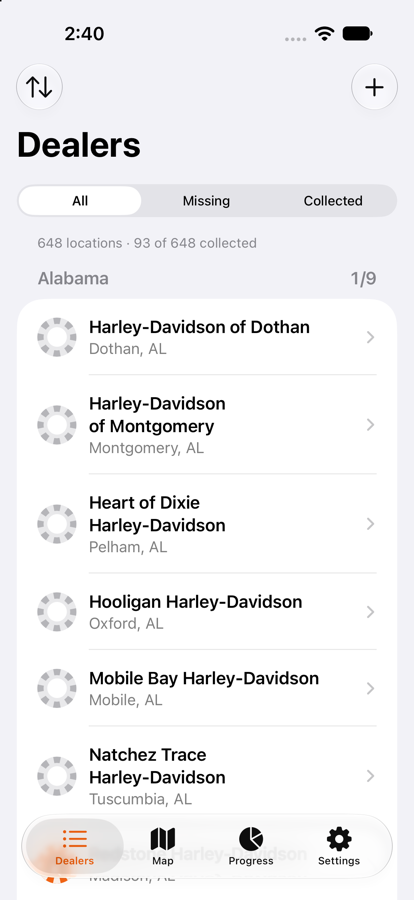
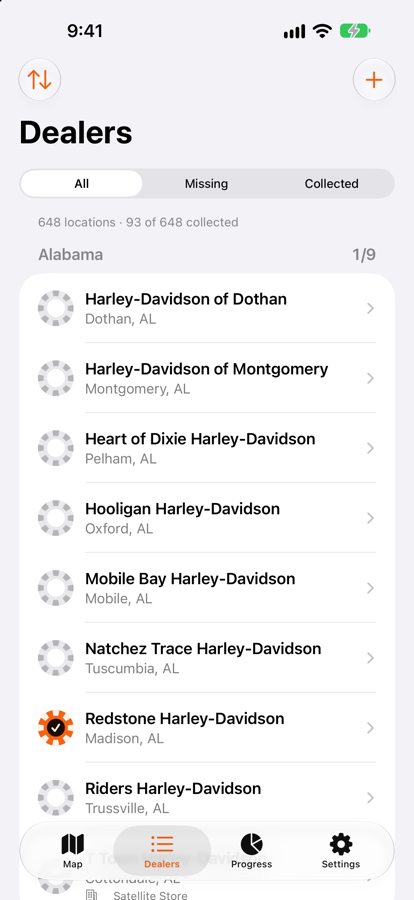
Open on the map, now the first tab (1.2)
- Map is the first tab and the app always opens on it (plain @State
  instead of restoring the last tab from scene storage).
- Retook every App Store screenshot set (6.9", 6.3", iPhone Duo folded
  and unfolded) in the new order, map first, so it leads the listing and
  link previews; rebuilt the Duo previews and README images.
- Bump the version to 1.2.

diff --git a/HarleyChipTracker/Views/RootView.swift b/HarleyChipTracker/Views/RootView.swift
@@ -2,15 +2,16 @@ import SwiftData
 import SwiftUI
 
 struct RootView: View {
-    @SceneStorage("selectedTab") private var selectedTab = AppTab.dealers
+    /// The app always opens on the map, the first tab.
+    @State private var selectedTab = AppTab.map
 
     var body: some View {
         TabView(selection: $selectedTab) {
-            Tab("Dealers", systemImage: "list.bullet", value: AppTab.dealers) {
-                DealerListView()
-            }
             Tab("Map", systemImage: "map", value: AppTab.map) {
                 ChipMapView()
+            }
+            Tab("Dealers", systemImage: "list.bullet", value: AppTab.dealers) {
+                DealerListView()
             }
             Tab("Progress", systemImage: "chart.pie", value: AppTab.progress) {
                 CollectionStatsView()
@@ -29,7 +30,7 @@ struct RootView: View {
 }
 
 enum AppTab: String {
-    case dealers, map, progress, settings
+    case map, dealers, progress, settings
 }
 
 #Preview {

diff --git a/README.md b/README.md
@@ -3,27 +3,27 @@
 Chip Chaser is an iPhone app for Harley-Davidson chip collectors (it started out as Harley Chip Tracker, the name the code still uses). Every Harley-Davidson dealership sells its own poker chip; this app lists them all and tracks which ones you have and which you're still missing.
 
 <p>
-  <img src="docs/screenshots/dealers.png" width="200" alt="Dealer list grouped by state">
   <img src="docs/screenshots/map.png" width="200" alt="Map of collected and missing chips">
+  <img src="docs/screenshots/dealers.png" width="200" alt="Dealer list grouped by state">
   <img src="docs/screenshots/progress.png" width="200" alt="Collection progress">
   <img src="docs/screenshots/detail.png" width="200" alt="Dealer detail with chip count">
 </p>
 
 On iPhone Duo's outer screen (folded), iOS moves the tab bar to a rail along the right edge; no layout changes were needed:
 
-<img src="docs/appstore/duo/preview.png" alt="Dealers, Map, Progress and dealer detail on iPhone Duo, with the tab bar as a rail on the right">
+<img src="docs/appstore/duo/preview.png" alt="Map, Dealers, Progress and dealer detail on iPhone Duo, with the tab bar as a rail on the right">
 
 Unfolded, the app fills the big inner screen in landscape, with the same rail on the right:
 
-<img src="docs/appstore/duo-unfolded/preview.png" alt="Dealers, Map, Progress and dealer detail on the unfolded iPhone Duo's inner screen, in landscape">
+<img src="docs/appstore/duo-unfolded/preview.png" alt="Map, Dealers, Progress and dealer detail on the unfolded iPhone Duo's inner screen, in landscape">
 
 Full-size Duo screenshots are in [`docs/appstore/duo/`](docs/appstore/duo/) (folded) and [`docs/appstore/duo-unfolded/`](docs/appstore/duo-unfolded/), next to the App Store screenshots in [`docs/appstore/`](docs/appstore/).
 
 ## Features
 
+- **Map first.** The app opens on the map. Orange chips are ones you have, grey ones you're missing. The map centers on your area so you can plan a ride around the chips you still need.
 - **Every location, built in.** 648 US and Canadian locations (556 dealerships, 26 satellite stores, 66 apparel & gift shops) from Harley-Davidson's dealer locator, including Alaska, Hawaii, Puerto Rico and Guam.
 - **Mark chips in one tap.** Tap the chip next to a dealer, or swipe the row. Filter by All / Missing / Collected, search by name, city, state or ZIP, and sort by state, A to Z, or nearest to you.
-- **Map.** Orange chips are ones you have, grey ones you're missing. The map opens on your area so you can plan a ride around the chips you still need.
 - **Progress.** Overall percentage, per-state progress (with a seal when you finish a state), recently collected, and counts of extras.
 - **Trading.** Track how many of each chip you own. Share your *missing list* or *extras for trade* as text to a collector group.
 - **Your own stores.** Add a dealer that's new, closed, or overseas; it counts like any other.
@@ -71,7 +71,7 @@ From the command line:
 xcodebuild test -project HarleyChipTracker.xcodeproj -scheme HarleyChipTracker -destination 'platform=iOS Simulator,name=iPhone 18 Pro'
 ```
 
-Debug builds accept `-demoData YES` (in-memory sample collection), `-debugTab map|progress|settings` and `-debugDealer <id>` launch arguments for screenshots.
+Debug builds accept `-demoData YES` (in-memory sample collection), `-debugTab dealers|progress|settings` (the app opens on the map otherwise) and `-debugDealer <id>` (with `-debugTab dealers`) launch arguments for screenshots. The App Store set in `docs/appstore/` is, in order: `-demoData YES`, then adding `-debugTab dealers`, `-debugTab progress`, and `-debugTab dealers -debugDealer hd-210`, with the simulator's location set to Milwaukee (43.0389, -87.9065) and the status bar at 9:41.
 
 ## Releasing to TestFlight
 
